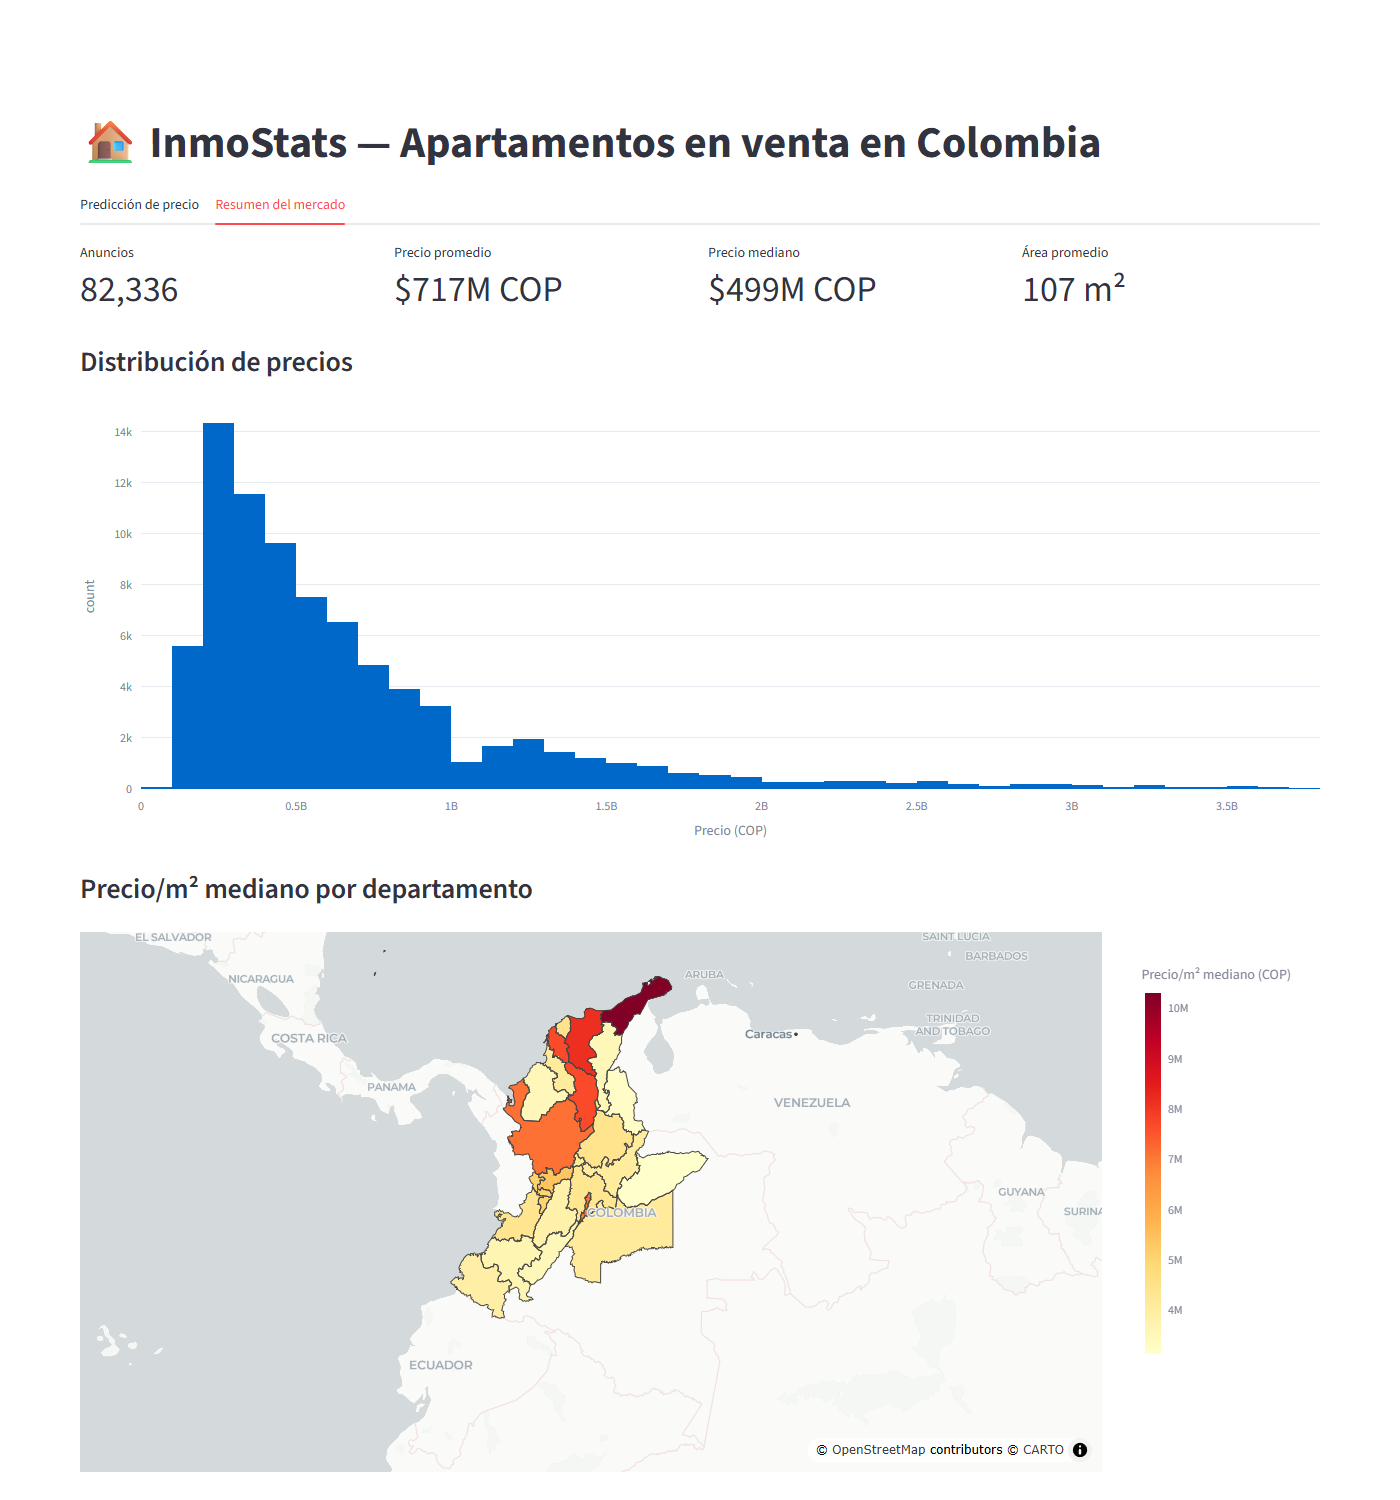
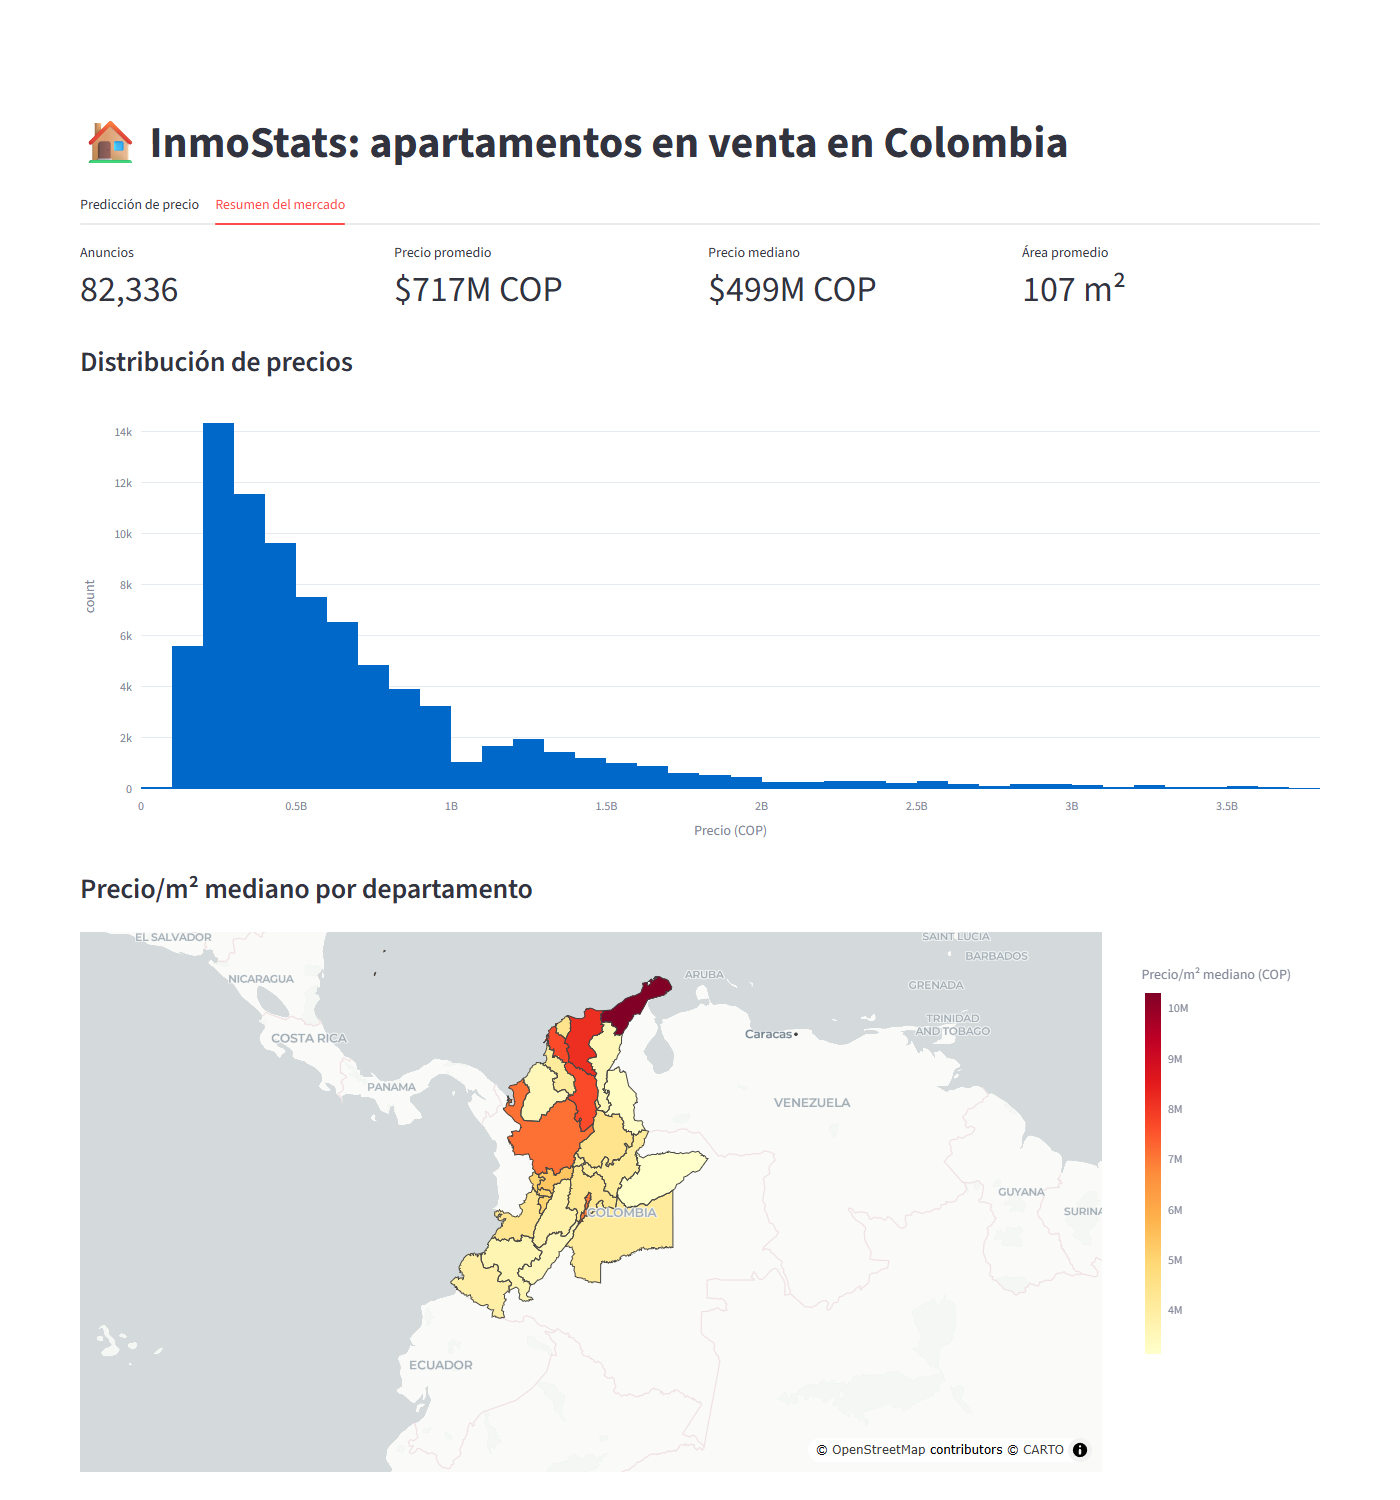
docs: elimina el caracter raya (em dash) de textos, codigo y captura
Reemplaza cada raya segun el contexto: dos puntos en titulos de mensajes
de Telegram, del titulo del dashboard y de la lista de endpoints y
comandos; coma en parentesis de progreso; punto, punto y coma o
conectores ("por ejemplo", "asi que") en frases del README y del
notebook. Regenera docs/dashboard.png con el titulo nuevo.

No toca data/raw ni data/processed: ahi las rayas son texto original de
los anuncios scrapeados.

Changed region(s): [[0.2457, 0.0613, 0.7986, 0.1227]]

diff --git a/workers/telegram-bot/src/index.js b/workers/telegram-bot/src/index.js
@@ -48,9 +48,9 @@ export default {
         env,
         chatId,
         "👋 Hola, soy el bot de <b>InmoStats</b>.\n\n" +
-          "/status — progreso del scraping nacional\n" +
-          "/stats — promedios y anuncios por zona\n" +
-          "/variables — que campos se estan extrayendo"
+          "/status: progreso del scraping nacional\n" +
+          "/stats: promedios y anuncios por zona\n" +
+          "/variables: que campos se estan extrayendo"
       );
     } else if (text === "/status" || text === "/estado") {
       await sendTelegramMessage(env, chatId, await buildStatusMessage());
@@ -93,7 +93,7 @@ async function buildStatusMessage() {
     const duration = formatDuration(checkpoint.started_at, checkpoint.finished_at);
 
     return (
-      `🎉 <b>InmoStats</b> — ultima corrida nacional: completa\n${divider}\n` +
+      `🎉 <b>InmoStats</b>: ultima corrida nacional: completa\n${divider}\n` +
       `✅ ${doneCount}/${total} zonas cubiertas\n` +
       `⏱ Tiempo total: ${duration}\n` +
       `${cooldownLine}\n${divider}`
@@ -105,7 +105,7 @@ async function buildStatusMessage() {
   if (current && current.last_page) {
     const pagesDone = current.next_page - 1;
     const pct = Math.round((pagesDone / current.last_page) * 100);
-    zonaLinea = `📍 Zona actual: <b>${current.name}</b> (pag. ${pagesDone}/${current.last_page} — ${pct}%)\n`;
+    zonaLinea = `📍 Zona actual: <b>${current.name}</b> (pag. ${pagesDone}/${current.last_page}, ${pct}%)\n`;
   } else if (current) {
     zonaLinea = `📍 Zona actual: <b>${current.name}</b> (aun sin iniciar, calculando total de paginas...)\n`;
   }
@@ -132,7 +132,7 @@ async function buildStatusMessage() {
     : "";
 
   return (
-    `🏗 <b>InmoStats</b> — Scraping en progreso\n${divider}\n` +
+    `🏗 <b>InmoStats</b>: scraping en progreso\n${divider}\n` +
     zonaLinea +
     `📊 Zonas completadas: ${bar} ${doneCount}/${total} (${zonesPct}%)\n` +
     `📈 Avance nacional por paginas: ${nationalPct}%${nationalNote}\n${divider}\n` +
@@ -176,7 +176,7 @@ async function buildStatsMessage() {
     .join("\n");
 
   return (
-    `📈 <b>InmoStats</b> — Estadisticas del dataset\n${divider}\n` +
+    `📈 <b>InmoStats</b>: estadisticas del dataset\n${divider}\n` +
     `🏠 Total anuncios: ${stats.total_listings.toLocaleString("es-CO")}\n` +
     `🗺 Zonas con datos: ${stats.zones_with_data}\n` +
     `💰 Precio promedio: ${formatCOP(stats.avg_price_cop)}\n` +
@@ -195,7 +195,7 @@ async function buildStatsMessage() {
 function buildVariablesMessage() {
   const divider = "━".repeat(21);
   return (
-    `🧬 <b>InmoStats</b> — Variables extraidas por anuncio\n${divider}\n` +
+    `🧬 <b>InmoStats</b>: variables extraidas por anuncio\n${divider}\n` +
     `<b>Identificacion</b>\n` +
     `listing_id, title, description, address, detail_url\n\n` +
     `<b>Ubicacion</b>\n` +

diff --git a/src/scraper/fincaraiz_scraper.py b/src/scraper/fincaraiz_scraper.py
@@ -392,7 +392,7 @@ def scrape_national(output_dir: Path = DATA_RAW_DIR) -> Optional[Path]:
     if is_fresh:
         divider = "━" * 21
         send_telegram_message(
-            f"🚀 <b>InmoStats</b> — Corrida nacional iniciada\n"
+            f"🚀 <b>InmoStats</b>: corrida nacional iniciada\n"
             f"{divider}\n"
             f"🗺 {len(checkpoint['departments'])} zonas por cubrir\n"
             f"{divider}\n"
@@ -524,7 +524,7 @@ def build_summary_message(checkpoint: dict, output_path: Path, rows_written: int
     if checkpoint["done"]:
         duration = _format_duration(checkpoint["started_at"], checkpoint["finished_at"])
         return (
-            f"🎉 <b>InmoStats</b> — ¡Corrida nacional completa!\n"
+            f"🎉 <b>InmoStats</b>: ¡corrida nacional completa!\n"
             f"{divider}\n"
             f"✅ {done_count}/{total_count} zonas cubiertas\n"
             f"⏱ Tiempo total: {duration}\n"
@@ -540,7 +540,7 @@ def build_summary_message(checkpoint: dict, output_path: Path, rows_written: int
         pct = round(pages_done / current["last_page"] * 100)
         zona_linea = (
             f"📍 Zona actual: <b>{current['name']}</b> "
-            f"(pag. {pages_done}/{current['last_page']} — {pct}%)\n"
+            f"(pag. {pages_done}/{current['last_page']}, {pct}%)\n"
         )
     elif current:
         zona_linea = f"📍 Zona actual: <b>{current['name']}</b> (aun sin iniciar)\n"
@@ -559,7 +559,7 @@ def build_summary_message(checkpoint: dict, output_path: Path, rows_written: int
     zones_pct = round(done_count / total_count * 100) if total_count else 0
 
     return (
-        f"🏗 <b>InmoStats</b> — Scraping en progreso\n"
+        f"🏗 <b>InmoStats</b>: scraping en progreso\n"
         f"{divider}\n"
         f"{zona_linea}"
         f"📊 Zonas completadas: {_progress_bar(done_count, total_count)} {done_count}/{total_count} ({zones_pct}%)\n"
@@ -576,7 +576,7 @@ def main() -> None:
         scrape_national()
     except Exception as exc:
         send_telegram_message(
-            f"🚨 <b>InmoStats</b> — Algo fallo en el scraping\n"
+            f"🚨 <b>InmoStats</b>: algo fallo en el scraping\n"
             f"{'━' * 21}\n"
             f"⚠ <code>{exc}</code>\n"
             f"{'━' * 21}\n"

diff --git a/src/dashboard/app.py b/src/dashboard/app.py
@@ -77,7 +77,7 @@ def fetch_amenities() -> list[str]:
         return []
 
 
-st.title("🏠 InmoStats — Apartamentos en venta en Colombia")
+st.title("🏠 InmoStats: apartamentos en venta en Colombia")
 
 tab_pred, tab_resumen = st.tabs(["Predicción de precio", "Resumen del mercado"])
 

diff --git a/README.md b/README.md
@@ -76,7 +76,7 @@ Puntos clave del diseño:
   real (el propio sitio embebe `lastPage`/`total` en cada respuesta), no
   hasta un número fijo. Algunas zonas grandes (Bogotá D.C., Antioquia,
   "resto de Colombia") tienen cientos o miles de páginas, así que una
-  corrida completa puede tardar **varias horas** — es intencional, dado
+  corrida completa puede tardar **varias horas**; es intencional, dado
   que se pidió cobertura exhaustiva en vez de una muestra acotada.
 - **Resumible**: el progreso se guarda en `data/raw/.checkpoint_national.json`
   después de cada página. Si el proceso se interrumpe (Ctrl+C, corte de
@@ -174,7 +174,7 @@ antigüedad, garajes, lat/lon), categóricas de baja cardinalidad
 (`department_final`, `owner_type`, one-hot) y de alta cardinalidad
 (`city`, `neighborhood`, target encoding), flags binarios de las 15
 amenidades más frecuentes, y flags de palabras clave de lujo/acabados
-detectadas en el texto libre del anuncio (`title`/`description`) — ej.
+detectadas en el texto libre del anuncio (`title`/`description`), por ejemplo
 "penthouse", "chimenea", "techos altos", elegidas comparando qué palabras
 son más frecuentes en el cuartil de precio más caro que en el más barato.
 
@@ -186,7 +186,7 @@ sesgos sistemáticos en un segmento específico).
 **Resultado actual** (ver `models/feature_config.json` para el detalle
 exacto de la corrida vigente): XGBoost, MAPE ≈ 13,41 %, R² ≈ 0,879 en CV
 sobre 82.336 anuncios. El modelo subestima sistemáticamente el segmento de
-lujo (cuartil más caro) y sobreestima el más barato — se investigó con
+lujo (cuartil más caro) y sobreestima el más barato. Se investigó con
 sample weighting, recalibración isotónica y features de texto; la mejora
 real vino de agregar `neighborhood` como feature, no de esas técnicas. El
 sesgo remanente es una limitación conocida y documentada, no un bug: es
@@ -196,7 +196,7 @@ fotos (calidad real de acabados).
 
 Guarda `models/price_model.joblib` (pipeline completo: preprocesamiento +
 modelo) y `models/feature_config.json` (vocabulario de amenidades/keywords,
-métricas, features usadas) — ambos gitignored, se regeneran localmente.
+métricas, features usadas); ambos están en .gitignore y se regeneran localmente.
 
 ## Fase 5: API
 
@@ -208,10 +208,10 @@ uvicorn src.api.main:app --reload
 
 Documentación interactiva en `http://localhost:8000/docs`.
 
-- `GET /health` — chequeo básico.
-- `GET /model-info` — modelo activo, fecha de entrenamiento y métricas.
-- `GET /amenities` — vocabulario de amenidades reconocidas por el modelo.
-- `POST /predict` — recibe características de un apartamento (ver
+- `GET /health`: chequeo básico.
+- `GET /model-info`: modelo activo, fecha de entrenamiento y métricas.
+- `GET /amenities`: vocabulario de amenidades reconocidas por el modelo.
+- `POST /predict`: recibe características de un apartamento (ver
   `src/api/schemas.py::ApartmentInput`) y devuelve el precio estimado.
   Reconstruye internamente las columnas `amenity_*`/`txt_*` que el
   pipeline espera a partir de `amenities` (lista) y `description` (texto
@@ -240,7 +240,7 @@ Requiere la API corriendo (`INMOSTATS_API_URL`, default
 
 ## Notebooks
 
-`notebooks/01_eda.ipynb`: EDA completo — distribuciones de precio, análisis
+`notebooks/01_eda.ipynb`: EDA completo: distribuciones de precio, análisis
 por departamento/ciudad/estrato, correlaciones, mapas interactivos
 (scatter y coropletas reales con `plotly`), regresión precio-vs-área por
 departamento, heatmap departamento×estrato y análisis de amenidades.
